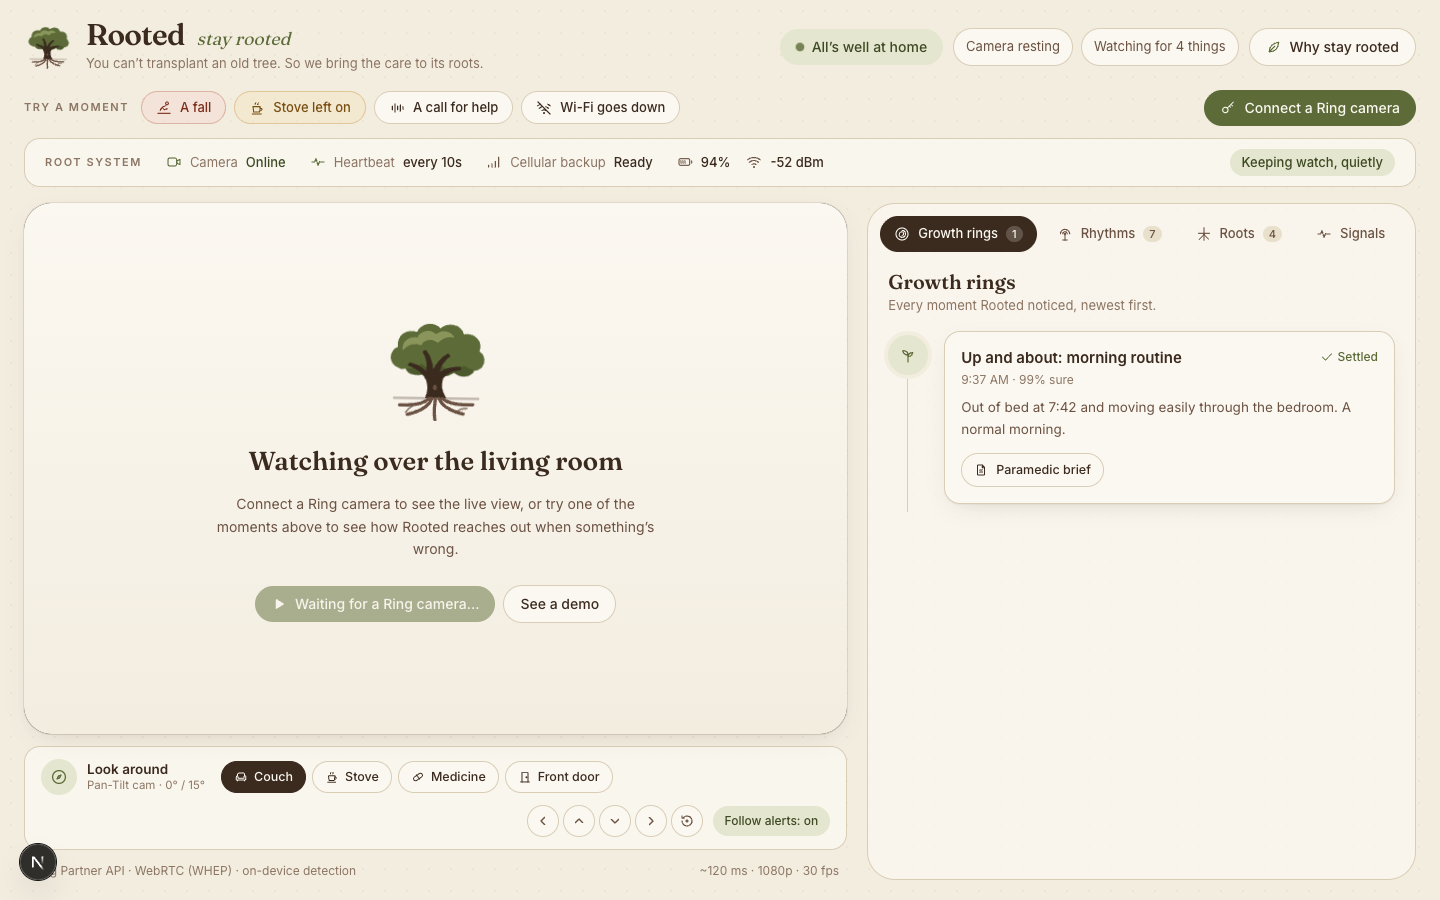
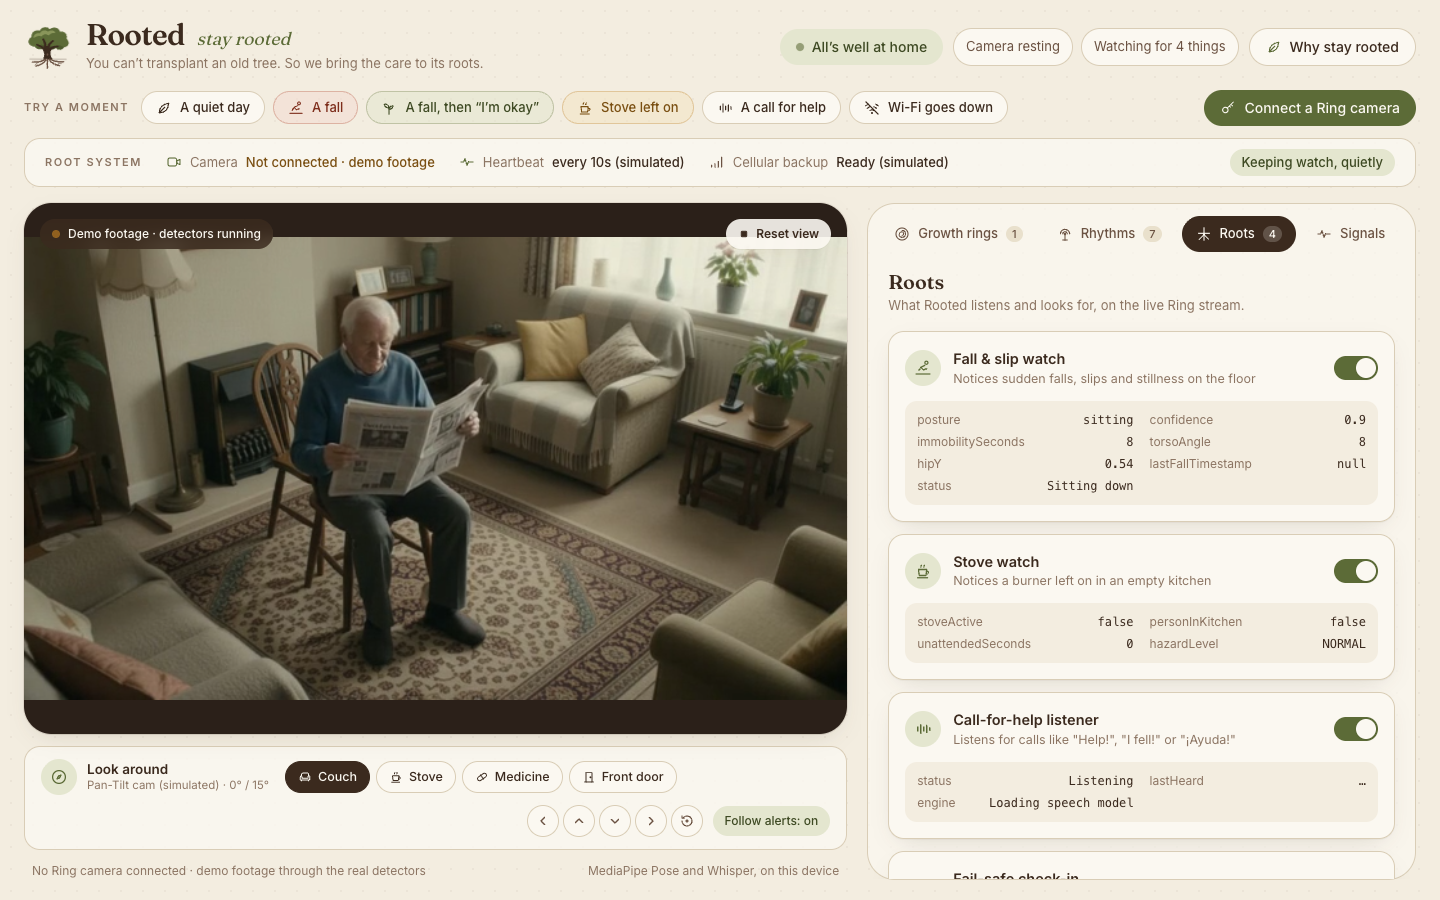
README: live demo, animated preview, flow diagram, privacy and plugin guide
A 'for judges' box with the public demo link (no keys, sends nothing), an
animated WebP of a fall answered with 'I'm okay', fresh screenshots, a Mermaid
flow including the 'I'm okay' wait, a Dignity and privacy section that says what
is and isn't built, and an 'Add your own root' guide. The check-in window no
longer promises a text over cellular or a 'clinical' brief.

diff --git a/app/components/CareIncidentModal.tsx b/app/components/CareIncidentModal.tsx
@@ -15,8 +15,8 @@ interface CareIncidentModalProps {
 
 const STEPS = [
   { level: 1, Icon: ChimeIcon, title: 'At home', body: 'A gentle chime in the home, and a moment to answer' },
-  { level: 2, Icon: FamilyIcon, title: 'Family', body: 'Email and text to the caregiver, over cellular if needed' },
-  { level: 3, Icon: HelpIcon, title: 'Emergency services', body: 'Dispatch with a clinical brief for paramedics' },
+  { level: 2, Icon: FamilyIcon, title: 'Family', body: 'An email to the caregiver, and a text once SMS is set up' },
+  { level: 3, Icon: HelpIcon, title: 'Emergency services', body: 'Dispatch with a brief for paramedics (simulated here)' },
 ] as const
 
 const HOLD_DURATION_MS = 2500 // 2.5 seconds deliberate hold required to cancel

diff --git a/README.md b/README.md
@@ -10,9 +10,13 @@
 ![Ring Partner API](https://img.shields.io/badge/Ring%20API-AVA%20v1-5C6B37)
 ![License](https://img.shields.io/badge/License-MIT-green)
 
-![Rooted dashboard](docs/screenshots/dashboard.png)
+![A fall, Rooted's check-in, “I’m okay” from the floor, and back up](docs/rooted-demo.webp)
 
-**Demo video (under 3 min):** see the Devpost submission · **Try it:** `npm install && npm run dev`, then press **A fall**.
+> **For judges, in one minute**
+> - **Try it live:** [rooted-eight-ecru.vercel.app](https://rooted-eight-ecru.vercel.app). Press **A fall**, then **A fall, then “I’m okay”**. The detectors run in your browser on demo footage; the public version sends no emails.
+> - **Watch it:** the demo video (under 3 minutes) is on the Devpost submission.
+> - **What’s real:** pose fall detection, the “I’m okay” and call-for-help listener (Whisper), the check-in and escalation, the Bedrock-written brief and the SES email, and the Ring Partner API discovery and live view, tested on the Ring Playground. Simulated: the stove, sensors, chime and 911. [The full table](#whats-real-and-whats-simulated).
+> - **Private by design:** video and audio never leave the device. [How](#dignity-and-privacy).
 
 ---
 
@@ -66,27 +70,47 @@ The **“A fall, then ‘I’m okay’”** moment runs all three on real detect
 
 **Daily rhythms.** Ring Alarm contact and motion sensors and the smoke/CO listener would add context: the medicine cabinet opened, a trip to the fridge, the front door at night. In the demo they’re simulated, and so is the Pan-Tilt Indoor Cam turning toward an alert, because pan-tilt isn’t in the public API.
 
-| A fall, and the check-in | Growth rings | Why stay rooted |
+| A quiet day, detectors live | A fall: the check-in | “I’m okay”, still on the floor |
 | :---: | :---: | :---: |
-| ![Fall alert](docs/screenshots/fall-alert.png) | ![Growth rings](docs/screenshots/growth-rings.png) | ![Why stay rooted](docs/screenshots/why.png) |
+| ![A quiet day with the Roots panel](docs/screenshots/dashboard.png) | ![Fall alert](docs/screenshots/fall-alert.png) | ![They answered, still on the floor](docs/screenshots/answered.png) |
+| **The paramedic brief** | **Why stay rooted** | |
+| ![Paramedic brief in Growth rings](docs/screenshots/growth-rings.png) | ![Why stay rooted](docs/screenshots/why.png) | |
 
 ---
 
-## Architecture
+## How a fall moves through Rooted
 
+```mermaid
+flowchart TD
+    cam["Ring camera<br/>live view over WebRTC (WHEP)"] --> roots
+    subgraph browser["In the browser: nothing leaves the device"]
+        roots["Roots<br/>MediaPipe Pose · Whisper"]
+    end
+    roots -- "a fall: sudden drop from upright,<br/>then 4 s still on the floor" --> checkin["Check-in, 45 s<br/>chime at home"]
+    checkin -- "“I’m okay”, but still on the floor" --> wait["Wait 2 min<br/>gentle note to the family"]
+    wait -- "still down" --> family
+    checkin -- "they get up" --> up["Stand down<br/>“back up” note"]
+    wait -- "they get up" --> up
+    checkin -- "someone checked:<br/>2.5 s hold on the dashboard" --> clear["All clear<br/>kept in Growth rings"]
+    checkin -- "no answer" --> family["Step 2: family<br/>Claude on Bedrock writes it, SES emails it"]
+    family -- "no answer" --> ems["Step 3: emergency services<br/>paramedic brief (always simulated)"]
 ```
-Ring camera (AVA: WebRTC stream, status, events)
-        │
-        ▼
-Roots: in-browser vision & audio (MediaPipe Pose fall, stove zone, Whisper listener)
-        │  incident
-        ▼
-Check-in countdown (1 s ticks, heartbeat watch, cellular fallback)
-        │  no answer
-        ├─► Step 1: in-home chime
-        ├─► Step 2: caregiver email (Bedrock + SES), text (SNS)
-        └─► Step 3: emergency dispatch + paramedic brief (simulated)
-```
+
+The incident record (what was detected, where, when, how sure) is the only thing that leaves the browser, and only at the family step.
+
+---
+
+## Dignity and privacy
+
+A camera watching someone’s parent has to earn its place in the home. What Rooted does today, as built:
+
+- **Video and audio stay on the device.** The Ring live view goes straight to the browser over WebRTC, and MediaPipe Pose and Whisper run there. Rooted records nothing, saves no frames, and keeps nothing in browser storage.
+- **Only an incident record goes further.** At the family step, the server gets what was detected, where, when and how sure the detector was. Claude on Bedrock writes the email from that record alone and is told never to add symptoms or anything the camera couldn’t see. Every brief ends by noting that it comes from an automated camera detector.
+- **A calm room stays clean.** The detector only draws a box on the person when something needs attention, and on most days nothing does.
+- **The person answers for themselves.** Saying “I’m okay” or getting up counts. The family hears from Rooted only after a 45-second check-in goes unanswered, or gets a gentle note if they said “I’m okay” from the floor; emergency services come only after the family step.
+- **The family timeline lives in the open page.** There’s no database; Growth rings is gone when the page closes.
+
+Not built yet, and needed before a real home: the person’s own consent and a way to pause watching, privacy zones (Ring supports them per camera), and controls over which family members can open the live view.
 
 ---
 
@@ -159,6 +183,38 @@ I built Rooted without any Ring hardware. On Oct 17 2026 I ran it against the Ri
 **Next:** vision on the stove zone, smoke-alarm beep detection on the stream’s audio track, Ring sensors over webhooks, a real Ring Chime sound, and a first run on a physical Ring camera.
 
 All the footage is AI-generated with Gemini Omni Flash: the quiet afternoon (started from a still edited with Nano Banana so the newspaper is already in his hands), the fall, the fall answered with “I’m okay” (continued from the fall clip’s last frame), the call for help and the stove left on. The voices are ElevenLabs. The people and voices are generated, not real.
+
+## Add your own root
+
+Each detector is a small plugin that gets every video frame. To add one, for example a root that notices the lights left off at night:
+
+1. Create `lib/video-processors/care/night-light.ts` implementing `VideoProcessor` from `lib/video-processors/types.ts`. Start its `id` with `care-` and it appears under **Roots** with a toggle and its live values.
+
+   ```ts
+   import { VideoProcessor, ProcessorResult } from '../types'
+
+   export class NightLightProcessor implements VideoProcessor {
+     id = 'care-night-light'
+     name = 'Night light'
+     description = 'Notices the room going dark while someone is still up'
+     enabled = true
+     private onIncident?: (incident: any) => void
+     setIncidentCallback(cb: (incident: any) => void) { this.onIncident = cb }
+
+     async process(frame: ImageData): Promise<ProcessorResult | null> {
+       let sum = 0
+       for (let i = 0; i < frame.data.length; i += 16) sum += frame.data[i]
+       const brightness = Math.round(sum / (frame.data.length / 16))
+       // ...call this.onIncident({ id, type, severity, timestamp, title, description, confidence, resolved: false, escalationLevel: 1 })
+       return { id: `night-${Date.now()}`, processorId: this.id, timestamp: Date.now(), data: { brightness } }
+     }
+   }
+   export const nightLightProcessor = new NightLightProcessor()
+   ```
+2. Register it in `lib/video-processors/index.ts` with `processorRegistry.register(nightLightProcessor)`.
+3. To start the check-in, wire its callback in `app/page.tsx` next to the others (`setIncidentCallback(handleNewIncident)`), and add your incident `type` to `CareIncident` in `lib/types/care.ts`.
+
+The same pipeline runs on a video file, so a new root can be tested on a clip before it ever sees a camera, the way every root here was.
 
 ## Built during the hackathon
 
